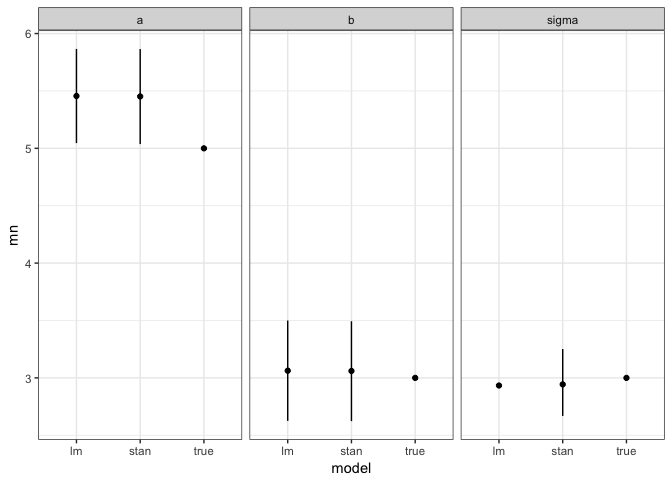
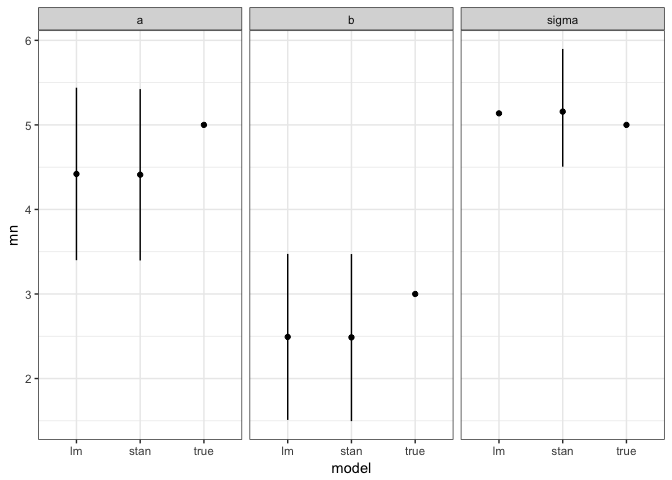
md output

diff --git a/code/compare.md b/code/compare.md
@@ -1,7 +1,7 @@
 Intro to stan
 ================
 Tim Szewczyk
-Wed Sep 27 18:45:01 2017
+Wed Oct 18 21:06:28 2017
 
 ``` r
 ## Introduction to stan for Allen lab meeting on 2017 Oct 19. This script
@@ -16,7 +16,7 @@ Wed Sep 27 18:45:01 2017
 ```
 
 ``` r
-if(!require(pacman)) install.packages("pacman")
+if(!require(pacman)) install.packages("pacman", dependencies=TRUE)
 ```
 
     ## Loading required package: pacman
@@ -31,10 +31,10 @@ rstan_options(auto_write=TRUE); options(mc.cores=parallel::detectCores())
 ```
 
 ``` r
-n <- 200
+n <- 100
 a <- 5
 b <- 3
-sigma <- 3
+sigma <- 5
 sim.df <- data.frame(x=rnorm(n, 0, 1))
 sim.df$y <- rnorm(n, a + b*sim.df$x, sigma)
 plot(y ~ x, data=sim.df)
@@ -56,19 +56,19 @@ summary(out_lm)
     ## lm(formula = y ~ x, data = sim.df)
     ## 
     ## Residuals:
-    ##     Min      1Q  Median      3Q     Max 
-    ## -7.7520 -2.0044  0.1478  2.0878  7.3943 
+    ##      Min       1Q   Median       3Q      Max 
+    ## -12.2407  -3.1127  -0.3005   3.0578  15.4013 
     ## 
     ## Coefficients:
     ##             Estimate Std. Error t value Pr(>|t|)    
-    ## (Intercept)   5.4559     0.2080   26.23   <2e-16 ***
-    ## x             3.0626     0.2216   13.82   <2e-16 ***
+    ## (Intercept)   4.4199     0.5140   8.598 1.32e-13 ***
+    ## x             2.4924     0.4947   5.038 2.15e-06 ***
     ## ---
     ## Signif. codes:  0 '***' 0.001 '**' 0.01 '*' 0.05 '.' 0.1 ' ' 1
     ## 
-    ## Residual standard error: 2.934 on 198 degrees of freedom
-    ## Multiple R-squared:  0.4909, Adjusted R-squared:  0.4884 
-    ## F-statistic:   191 on 1 and 198 DF,  p-value: < 2.2e-16
+    ## Residual standard error: 5.137 on 98 degrees of freedom
+    ## Multiple R-squared:  0.2057, Adjusted R-squared:  0.1976 
+    ## F-statistic: 25.38 on 1 and 98 DF,  p-value: 2.15e-06
 
 ``` r
 par(mfrow=c(2,2))
@@ -83,11 +83,26 @@ pred.lm <- predict(out_lm, new.x, interval="confidence")
 par(mfrow=c(1,1))
 plot(y ~ x, data=sim.df)
 abline(out_lm, col="blue")
+segments(sim.df$x, sim.df$y, sim.df$x, out_lm$fitted.values, 
+         col=rgb(0,0,1,0.5))
+```
+
+![](compare_files/figure-markdown_github-ascii_identifiers/unnamed-chunk-7-2.png)
+
+``` r
+hist(out_lm$residuals, breaks=10)
+```
+
+![](compare_files/figure-markdown_github-ascii_identifiers/unnamed-chunk-7-3.png)
+
+``` r
+plot(y ~ x, data=sim.df, cex.axis=2, cex.lab=2)
+abline(out_lm, col="blue")
 lines(new.x$x, pred.lm[,2], col="blue", lty=2)
 lines(new.x$x, pred.lm[,3], col="blue", lty=2)
 ```
 
-![](compare_files/figure-markdown_github-ascii_identifiers/unnamed-chunk-7-2.png)
+![](compare_files/figure-markdown_github-ascii_identifiers/unnamed-chunk-7-4.png)
 
 ``` r
 ## linear regression with stan
@@ -95,26 +110,32 @@ lines(new.x$x, pred.lm[,3], col="blue", lty=2)
 
 ``` r
 stan_d <- list(n=n, x=sim.df$x, y=sim.df$y)
-out_stan <- stan(file=here("code", "lm.stan"), data=stan_d, iter=10000)
+out_stan <- stan(file=here("code","lm.stan"), data=stan_d, iter=5000, thin=5)
+```
+
+    ## Warning in strptime(xx, f <- "%Y-%m-%d %H:%M:%OS", tz = tz): unknown
+    ## timezone 'default/America/New_York'
+
+``` r
 out_stan
 ```
 
     ## Inference for Stan model: lm.
-    ## 4 chains, each with iter=10000; warmup=5000; thin=1; 
-    ## post-warmup draws per chain=5000, total post-warmup draws=20000.
+    ## 4 chains, each with iter=5000; warmup=2500; thin=5; 
+    ## post-warmup draws per chain=500, total post-warmup draws=2000.
     ## 
     ##          mean se_mean   sd    2.5%     25%     50%     75%   97.5% n_eff
-    ## a        5.45    0.00 0.21    5.04    5.31    5.45    5.59    5.87 17553
-    ## b        3.06    0.00 0.22    2.62    2.91    3.06    3.21    3.49 18614
-    ## sigma    2.94    0.00 0.15    2.67    2.84    2.94    3.04    3.25 17972
-    ## lp__  -315.74    0.01 1.23 -318.91 -316.30 -315.42 -314.84 -314.33  9877
+    ## a        4.41    0.01 0.51    3.40    4.06    4.41    4.77    5.42  2000
+    ## b        2.49    0.01 0.50    1.50    2.15    2.48    2.83    3.47  2000
+    ## sigma    5.16    0.01 0.36    4.51    4.91    5.13    5.40    5.90  2000
+    ## lp__  -214.27    0.03 1.18 -217.18 -214.85 -213.98 -213.41 -212.86  2000
     ##       Rhat
     ## a        1
     ## b        1
     ## sigma    1
     ## lp__     1
     ## 
-    ## Samples were drawn using NUTS(diag_e) at Wed Sep 27 18:45:17 2017.
+    ## Samples were drawn using NUTS(diag_e) at Wed Oct 18 21:06:35 2017.
     ## For each parameter, n_eff is a crude measure of effective sample size,
     ## and Rhat is the potential scale reduction factor on split chains (at 
     ## convergence, Rhat=1).
@@ -142,39 +163,31 @@ pairs(out_stan)
 ![](compare_files/figure-markdown_github-ascii_identifiers/unnamed-chunk-9-3.png)
 
 ``` r
-stan_diag(out_stan)
-```
-
-    ## Warning: Removed 1 rows containing missing values (geom_bar).
-
-![](compare_files/figure-markdown_github-ascii_identifiers/unnamed-chunk-9-4.png)
-
-``` r
 stan_rhat(out_stan)
 ```
 
     ## `stat_bin()` using `bins = 30`. Pick better value with `binwidth`.
 
-![](compare_files/figure-markdown_github-ascii_identifiers/unnamed-chunk-9-5.png)
+![](compare_files/figure-markdown_github-ascii_identifiers/unnamed-chunk-9-4.png)
 
 ``` r
 stan.gg <- ggs(out_stan)
 ggs_density(stan.gg)
 ```
 
-![](compare_files/figure-markdown_github-ascii_identifiers/unnamed-chunk-9-6.png)
+![](compare_files/figure-markdown_github-ascii_identifiers/unnamed-chunk-9-5.png)
 
 ``` r
 ggs_crosscorrelation(stan.gg)
 ```
 
-![](compare_files/figure-markdown_github-ascii_identifiers/unnamed-chunk-9-7.png)
+![](compare_files/figure-markdown_github-ascii_identifiers/unnamed-chunk-9-6.png)
 
 ``` r
 ggs_autocorrelation(stan.gg)
 ```
 
-![](compare_files/figure-markdown_github-ascii_identifiers/unnamed-chunk-9-8.png)
+![](compare_files/figure-markdown_github-ascii_identifiers/unnamed-chunk-9-7.png)
 
 ``` r
 ## comparisons
@@ -187,11 +200,11 @@ plot(y ~ x, data=sim.df)
 for(i in 1:nGG) {
   abline(a=stan.gg$value[stan.gg$Parameter=="a" & stan.gg$iter==i],
          b=stan.gg$value[stan.gg$Parameter=="b" & stan.gg$iter==i],
-         col=rgb(0,0,1,1/sqrt(nGG)))
+         col=rgb(84/240,48/240,5/240,1/sqrt(nGG)))
 }
-abline(out_lm)
-lines(new.x$x, pred.lm[,2], lty=2)
-lines(new.x$x, pred.lm[,3], lty=2)
+abline(out_lm, col=rgb(1/240,102/240,94/240), lwd=2)
+lines(new.x$x, pred.lm[,2], lty=2, col=rgb(1/240,102/240,94/240), lwd=2)
+lines(new.x$x, pred.lm[,3], lty=2, col=rgb(1/240,102/240,94/240), lwd=2)
 ```
 
 ![](compare_files/figure-markdown_github-ascii_identifiers/unnamed-chunk-11-1.png)
